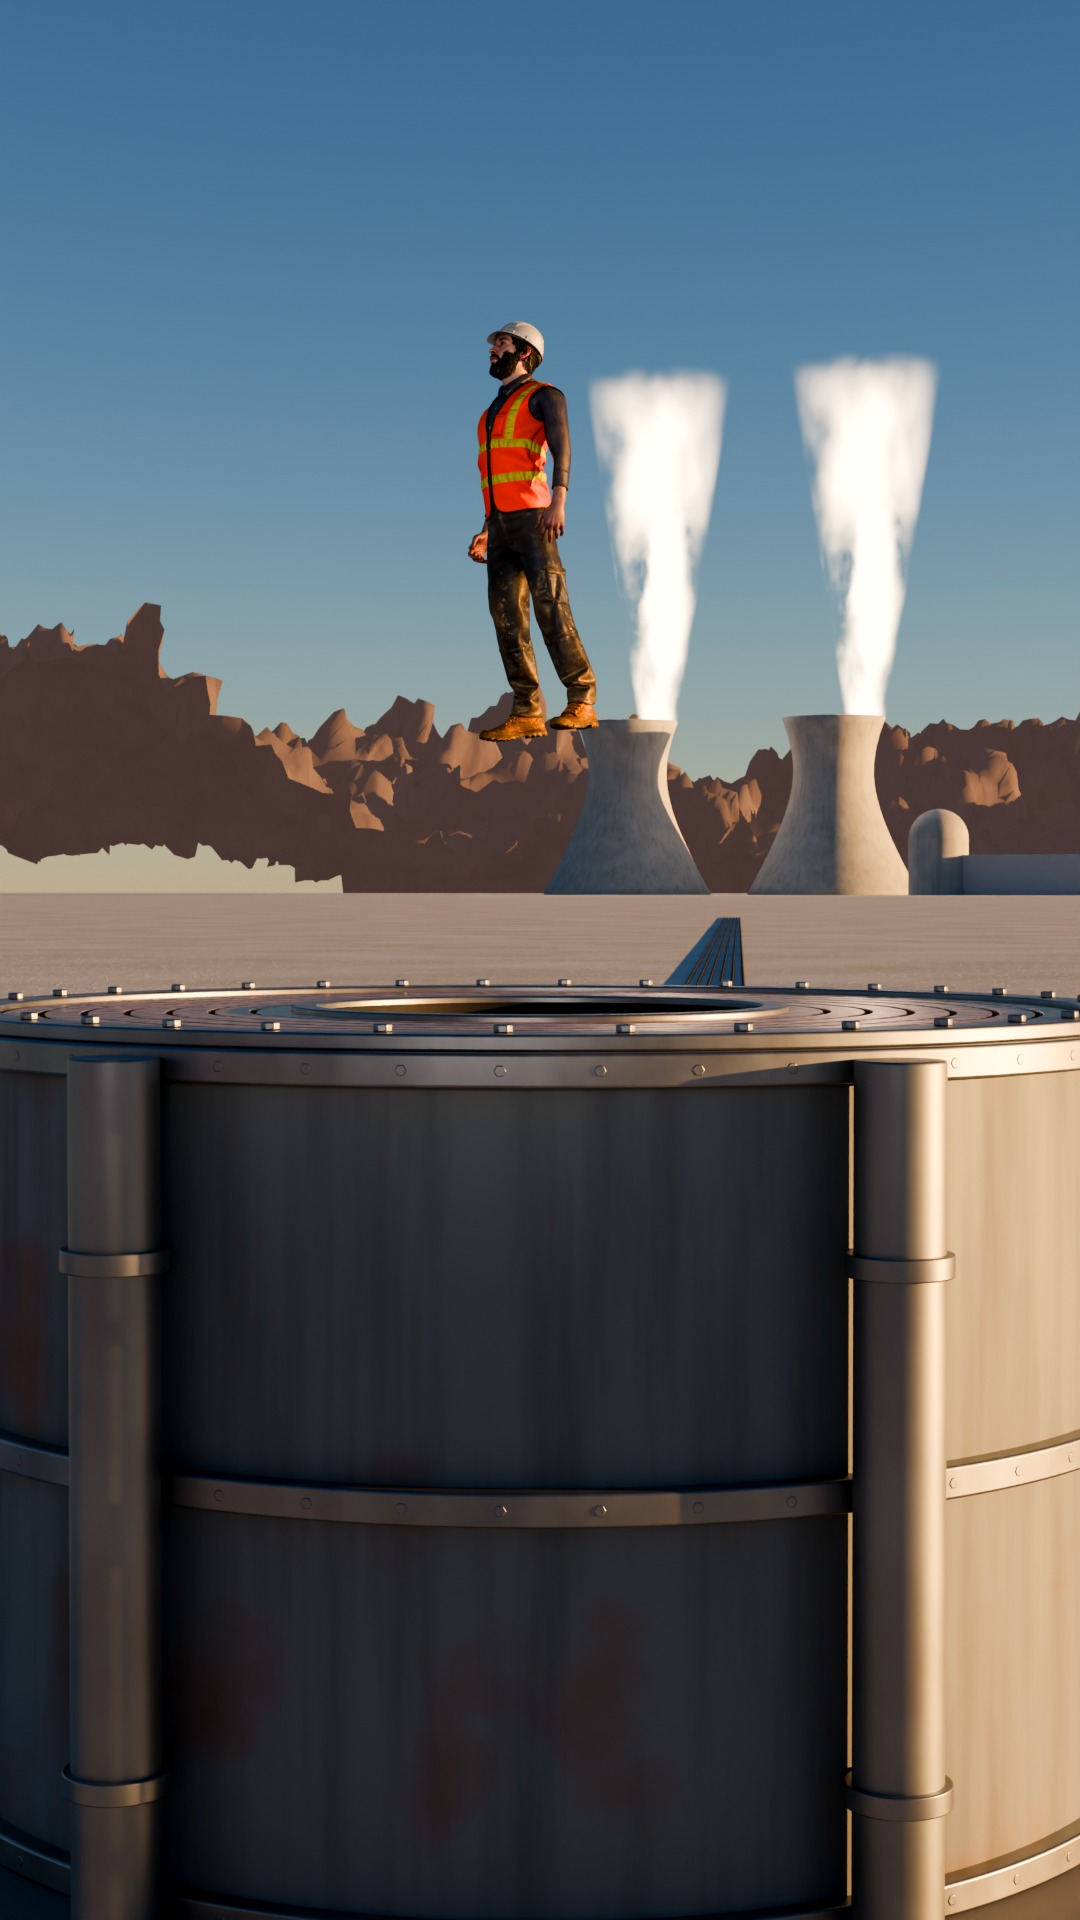
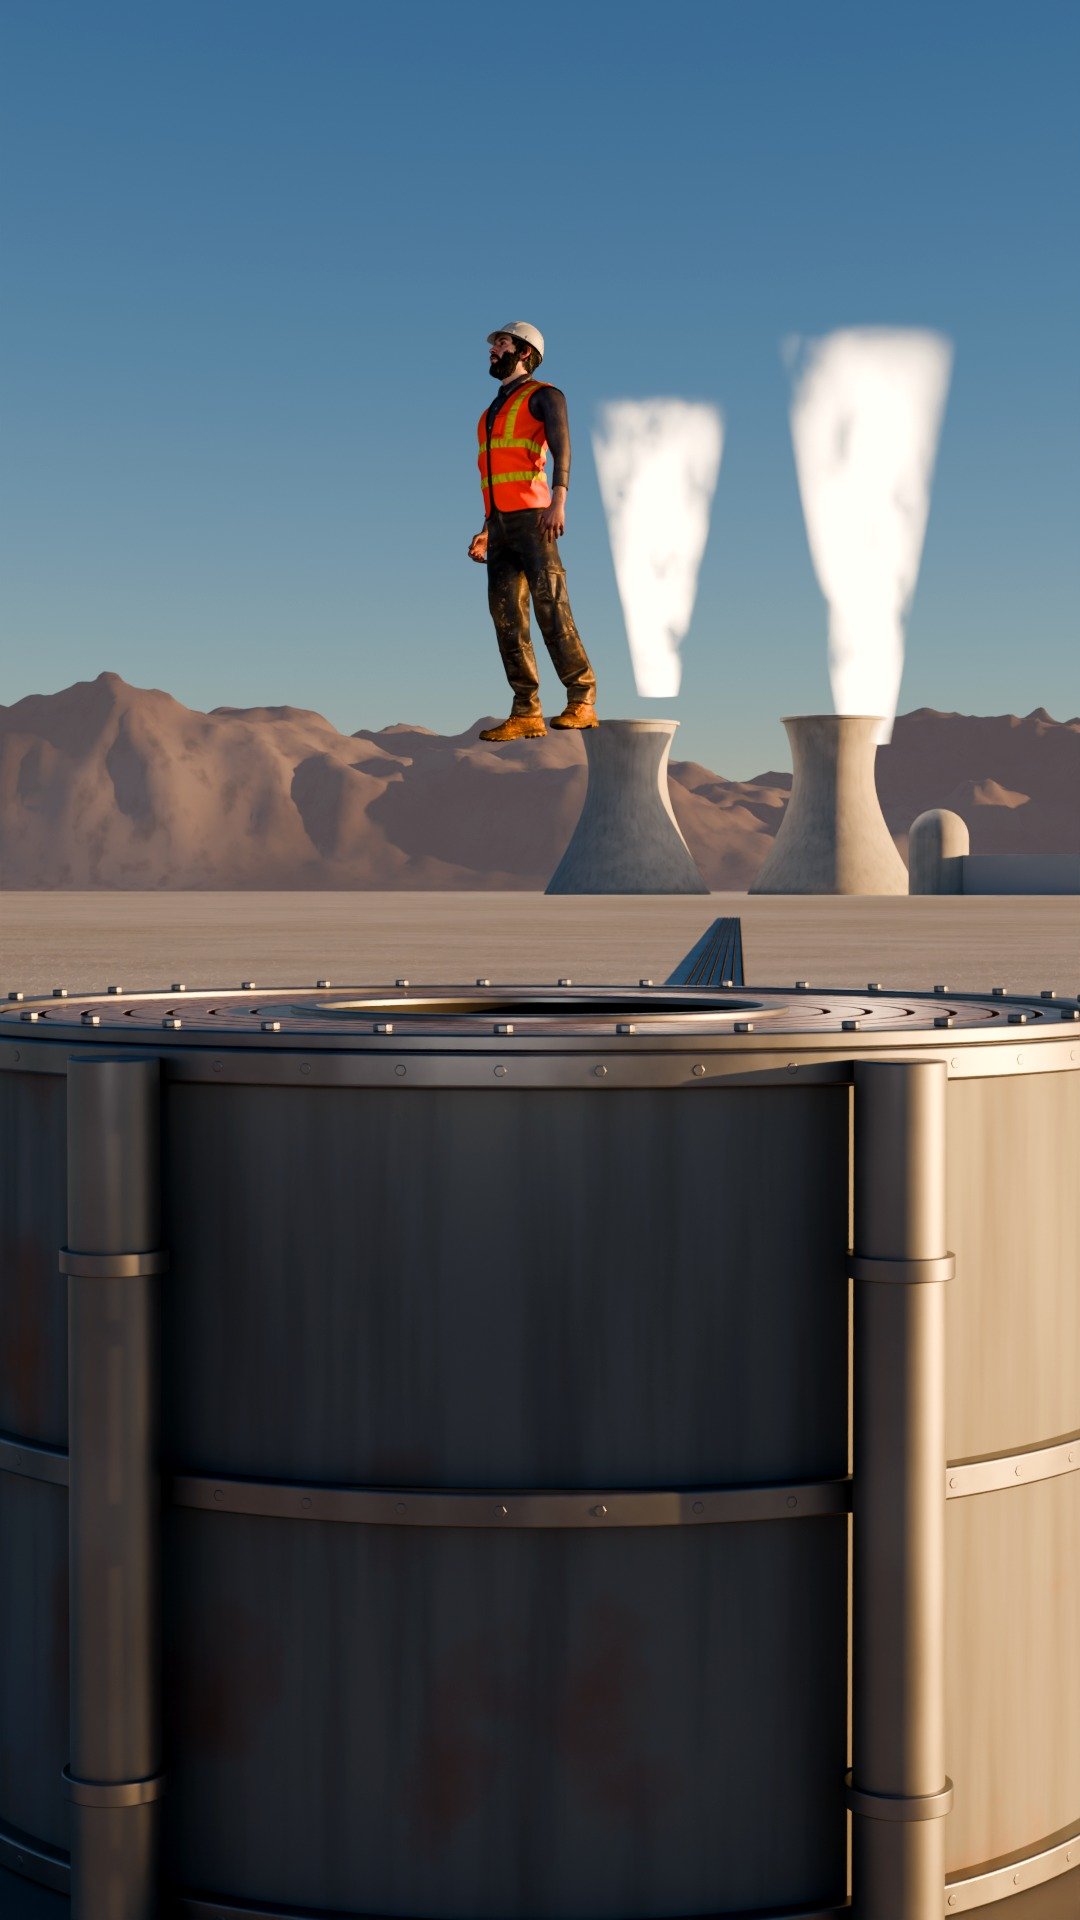
Ep. 5 parado en la puerta 4 (realismo 7 en 2 rondas): fondo de B arreglado sin abrir ronda 3; estado, lecciones 89, estudio e ideas al día
Claude-Session: https://claude.ai/code/session_01NsfHtMLpH4tmXW64rT29iR

diff --git a/CONTEXTO.md b/CONTEXTO.md
@@ -113,7 +113,7 @@ Leer esto entero antes de trabajar, junto con `proyecto/INSTRUCCIONES.md`: sus s
 - No crear cuentas ni usar contraseñas por Tomás.
 - **Publicar en redes solo con su OK explícito, post por post.**
 
-## Estado actual (22-oct-2026)
+## Estado actual (23-oct-2026)
 - **YouTube primero (21-oct-2026, noche):** Tomás decidió concentrar el proyecto en YouTube. Se investigó el algoritmo de Shorts, el YPP 2027, la frecuencia y la duración (`docs/YOUTUBE.md`, 27 fuentes en la prerelease `yt-fuentes`). Decidió: **videos de 25–40 s (techo 45)**, **5 por semana y diario cuando un video tome ≤ 2,5 h** (2 por sesión), **IG y TikTok siguen con el mismo video** y **compilaciones largas muy de vez en cuando**. Ajustado en el código (`presupuesto.json`: 25–45,5 s, 70–128 palabras, 6 escenas, tope 4 h y meta 2,5 h), el manual, el auditor, las ideas y las instrucciones. **Métrica principal en YouTube:** visto vs. deslizado, % visto y vistas comprometidas (se leen en YouTube Studio con el Chrome de Tomás; Metricool no las trae). Tomás calcula que el Ep. 3 (63 s, 5,5 h) gastó **~7 % de su uso semanal de Claude**: a 25–40 s se estima ~4–5 % por video, o sea ~30–35 % a la semana con uno diario. Le cabe (21:15).
 **Fase actual: 0, puesta a punto.** Ver la checklist en `docs/AUTOMATIZACION.md`.
 
@@ -165,6 +165,8 @@ Leer esto entero antes de trabajar, junto con `proyecto/INSTRUCCIONES.md`: sus s
   6. ~~Tareas programadas~~: la de producción la eliminó Tomás (21-oct): los videos se piden en el chat. La revisión de métricas, sólo si él la pide.
   7. **Ep. 4 = "La cortina de la ducha te persigue"** (`studio/episodios/ep04-cortina-ducha/`, primer video corto de YouTube primero, 35,7 s, 97 palabras): pedido por Tomás el 21-oct a las 23:28 y hecho de noche. Estudio previo en `docs/estudios/ep04.md` (sólo el Ep. 1 tenía métricas; Chrome no conectado, sin YouTube Studio). Personaje nuevo **Don Héctor** (MakeHuman CC0, `escena/pj/hector.blend`; de los hombros para arriba, máscara bajo el pecho y espuma: nada de desnudos). 3 escenas a medida: E1 ducha, E2 corte (la cortina se vuelve transparente y se ve el remolino acostado, eje perpendicular a la cortina según Schmidt en Scientific American), E3 cortina pesada. Puertas: guion r1, voz r1, storyboard r2 (r1: eje del remolino), cuadros r2 (r1: agua rosada; look lavado corregido), animatic r1 NO (3 bloqueantes; 2 ya arreglados en el final) → **parche** de los planos 3–5 sobre el final (lección 68) → animatic r2 (verificación sobre el final parchado) **NO: 1 bloqueante en el 17 (espalda 0,15 s y cortina que cae de golpe) y promedio 7,88** (gancho 7: el primer segundo es él tranquilo) → el 17 se simplificó (sin personaje, la cortina baja pareja) en un 2.º parche; **final APROBADO (puerta 7, 0 bloqueantes)**; **paquete APROBADO (8,5)**; **proceso NO** (bitácora sin chequeos de 15 min en la sesión y los revisores, y 5 h de 4: lección 73), con las 3 sugerencias del paquete aplicadas ("efecto cortina de ducha", pedir el envío, fuente NASW). Render final: run 39722863780 (12 máquinas, 8 muestras) + parches 39726712487 (3–5) y 39756380402 (17), prerelease `ep04-borrador`; portada en 3,7 s (`entrega/portada.jpg`). Desvíos: render final a **8 muestras** (16 no cabía en 4 h), 2 animatics cancelados a los 7–10 min (lección 67), la r2 de la puerta 6 se hizo sobre el final parchado. Tiempo: **~5 h** (23:28–03:43 y 06:23–~07:15; meta 2,5 h, **tope 4 h pasado por ~1 h**). Se paró a las 03:15 y se le dieron opciones a Tomás; a las 06:23 preguntó si estaba listo y se cerró. Lo que más costó: el render final (la máquina de los planos 13–14 tardó ~2 h, el doble de lo estimado) y los arreglos de la puerta 6 después del final. Textos en `entrega/caption.md`, **programado con OK de Tomás (22-oct 07:23) para el viernes 23-oct: IG 10:00 · TikTok 10:00 · YouTube 16:00** (Metricool 403001164 / 403001266 / 403001408; MP4 en el Release `ep04`). Confirmar después que quedó "Published". A Tomás le gustó mucho (ver "Aprendizajes").
 
+  8. **Ep. 5 = "El imán que hace flotar a una rana"** (`studio/episodios/ep05-iman-rana/`, primer video **realista**: "realista pero en un mundo animado", calidad Zack D. Films; pedido el 22-oct 23:16, hecho de noche). Guion v2.1 APROBADO (8,25; 119 palabras), voz APROBADO (41,4 s tras `pausas.py`), storyboard APROBADO r2 (18 planos, 5 escenas: E1 rana en el tubo del imán en un salar de Atacama al atardecer, E2 adentro hasta el agua, E3 refri, E4 imán gigante + central nuclear, E5 Pete de Mixamo flotando; SIMULACIÓN fija en 12–17). Rana = escaneo real CC-BY; Pete = Mixamo desde el Release privado `Personajes`. **Puerta 4 (cuadros de estilo): NO APROBADO en 2 rondas por realismo 7** (r1: B = 6, "maqueta"; r2: A 9, C 8, B 7 por el fondo + 1 bloqueante de cerros flotando). Por la regla de Tomás ("sigue sólo si el realismo llega a 8; si no, para y propón alternativas") **el video está parado ahí, sin animatic**: se dejó listo el arreglo del fondo de B (cerros con bruma y falda, salar de 40 km) sin abrir una 3.ª ronda, y se le dieron opciones a Tomás el 23-oct ~03:10. Tiempo: ~3 h 55 min (tope 4 h). Planos ya alineados con los cuadros v2 (rana 3/4 a 22 cm, Pete a 1,2 m sobre la boca, cámaras); los 27 trozos arman sin error (prueba local de 1 cuadro). Textos en `entrega/caption.md` (horario propuesto pendiente). Estudio en `docs/estudios/ep05.md`.
+
 - **Métricas al 22-oct ~20:00 (Studio y TikTok Studio, en `PUBLICADOS.md`):** el Ep. 3 (edificio) explotó en TikTok (118 mil) e Instagram (63,2 mil) y en YouTube quedó en 1.483. En YouTube los tres Shorts reciben una tanda de ~1.200–1.500 vistas y se frenan; el Ep. 1 tuvo una 2.ª tanda al día 2 (4.003 en total). El video no es el problema: 73–78 % no lo desliza, 0:32–0:42 de vista promedio, 93–97 % viene del feed de Shorts. Hipótesis principal: el largo (64–74 s; en el Ep. 1 a los 30 s queda el 46 %); el Ep. 4 (35,7 s) es la prueba. Público de YouTube: sobre todo México, después Argentina, Colombia, Perú y Guatemala. Horario: revisión en `docs/HORARIOS.md` (propuesta de alternar 20:30 y 16:00, pendiente de Tomás). Ojo: Instagram es @el_viejo_del_dato y el nombre visible de TikTok sigue siendo "Nadie te explica"; el canal de YouTube está en otra cuenta de Google en el Chrome de Tomás (selector de canales).
 
 ## Decisiones pendientes de Tomás
@@ -175,6 +177,7 @@ Leer esto entero antes de trabajar, junto con `proyecto/INSTRUCCIONES.md`: sus s
 5. ~~Producción automática~~: **decidido por Tomás el 21-oct-2026: no hay tarea programada de producción.** Él pide cada video en el chat; uno o dos videos por sesión (desde el 21-oct, YouTube primero).
 6. **Proporción datos/historias.** Propuesta de Claude: ~2 de datos por cada historia en el piloto; a las 4 semanas se ajusta según envíos/alcance de cada línea.
 7. **Sumar Facebook como 4.ª red** (es el mismo video y Facebook paga por vistas en Chile, por invitación). Necesita que Tomás cree una página de Facebook y la conecte a Metricool. Preguntado el 21-oct.
+8. **Ep. 5: cómo seguir después de la puerta 4** (preguntado el 23-oct ~03:10): (1) 3.ª ronda con el fondo de B ya arreglado y, si llega a 8, animatic + final (recomendado); (2) que Tomás mire los cuadros y, si le gustan, seguir sin otra ronda; (3) dejar el Ep. 5 y hacer otra idea.
 
 ## Aprendizajes
 (Se llenan con los datos de cada semana. Ver `docs/PUBLICADOS.md`.)

diff --git a/docs/LECCIONES.md b/docs/LECCIONES.md
@@ -151,6 +151,7 @@ Resultado: se publicó el 19-oct a las 16:35 en Instagram, TikTok y YouTube, per
 | 86 | Con la cámara alta, Pete "flotando" sobre la boca parecía parado sobre los cables a lo lejos | Sus pies quedaban contra el suelo lejano, justo donde convergían los cables (perspectiva ambigua) | Cámara apenas sobre la tapa: los pies se recortan contra el fondo lejano y el hueco entre la tapa y las botas se lee | **Lo que flota se recorta contra el fondo lejano o el cielo, nunca contra el suelo detrás**; revisar qué hay detrás de los pies |
 | 87 | Los cables al suelo hacia la central se veían como una "aleta" gris detrás del imán | Iban justo hacia el punto de fuga del centro del cuadro y el sol bajo les daba una sombra de 1 m; además reflejaban el cielo a ras | Cables finos, mate (sin reflejo) y la central a un costado del cuadro | Una línea en el suelo que apunta al centro del cuadro se lee como objeto vertical: correr el punto de fuga a un lado |
 | 88 | El cuadro 0 de la rana, más cerca, quedó lavado (fondo de horizonte quemado) | Cámara a la altura de la rana: de fondo, el cielo del atardecer | Cámara 7,5 cm más arriba mirando un poco hacia abajo: de fondo, la sal a contraluz (azul) | En macro al atardecer, el fondo es el suelo a contraluz, no el horizonte |
+| 89 | Puerta 4 r2: realismo otra vez 7 (A 9, C 8, B 7) y un bloqueante B1: los cerros flotaban sobre una franja de cielo | El salar medía 6 km y los cerros están a 8–12 km (bajo ellos no había suelo); el relieve no se apagaba en el borde de la malla; cerros con detalle chico de "greda" y sin bruma | Salar de 40 km, falda en los cerros (el relieve se apaga hacia el borde), formas grandes con bruma de distancia y dos rocas, manchas en la sal, plumas distintas | **Fondo lejano realista = formas grandes + bruma + el suelo llega hasta él.** Y: después de rediseñar un set, revisar el fondo en un recorte a resolución completa antes de la ronda (en la miniatura no se ve) |
 
 ### Lo que funcionó (para repetir)
 - **Escaneos reales con licencia CC-BY** (Objaverse/Sketchfab, crédito en la descripción) para animales: la rana se ve real sin modelarla.

diff --git a/docs/estudios/ep05.md b/docs/estudios/ep05.md
@@ -20,6 +20,12 @@ Pedido de Tomás (22-oct 23:16): realismo de verdad, cuadro 0 que sea un "¿qué
   - **Cámara y color:** lente de 40–50 mm a f/2 con profundidad de campo, y AgX.
   - **Las explicaciones van como capas estilizadas encima:** líneas del imán y flechas.
 - **Costo medido:** un cuadro de 1080×1920 a 64 muestras tarda ~4–5 min en Actions. En el video (720×1280, 16 muestras) se estiman ~30–40 s por cuadro en CPU; el final conviene en GPU (RunPod).
+- **Lo que dijo el auditor (puerta 4, realismo con mínimo 8):**
+  - **r1: 7.** A (rana) 8; C (adentro) 7; B (imán gigante) 6, "maqueta o videojuego": paneles lisos, luz pareja de mediodía sin negros, torre lisa, cerros de greda; Pete parecía parado sobre la tapa.
+  - **r2: 7** (los 5 problemas de r1 arreglados). A 9 (rana 3/4 con ojo, fondo de sal a contraluz, vidrio con polvo); C 8; B 7 por el fondo: cerros facetados de un solo café sin bruma (y flotando a la izquierda: bloqueante), suelo liso, torres perfectas.
+  - **Qué subió la nota:** suciedad en todo (chorreados, óxido, rayas, manchas), sol bajo y de costado, menos luz de cielo (negros reales), escaneos y personajes con texturas reales, foco en la cabeza con f/8.
+  - **Qué la bajó:** lo lejano hecho con ruido (cerros) y las superficies grandes lisas. Después de r2 se dejaron cerros con formas grandes, bruma y falda, y un salar de 40 km (sin auditar: la 3.ª ronda es decisión de Tomás).
+  - **Leer una levitación:** lo que flota tiene que recortarse contra el fondo lejano o el cielo; con la cámara alta los pies de Pete quedaban contra el suelo y parecía parado lejos.
 
 ## 4. Cuadro 0 y primeros 2 s
 - **Elegido:** la rana ya flotando sobre la boca negra del imán, con su sombra en la tapa: es verdad y se entiende en 1 foto. En 0–2 s la cámara le da media vuelta, para que se vea que no hay hilos, y entra la píldora SIN HILOS.

diff --git a/docs/IDEAS.md b/docs/IDEAS.md
@@ -164,7 +164,7 @@ Todos los datos están por **verificar** al producir; acá solo van como pista.
 |---|---|---|---|---|
 | **usada: Ep. 4** (22-oct-2026) | La cortina de la ducha te persigue (y no es un fantasma) | El chorro arma un remolino acostado dentro de la ducha; su centro tiene baja presión y chupa la cortina. Pasa también con agua fría | La ducha en corte con el remolino girando como una rueda y la cortina que se mete | El agua caliente lo empeora |
 | pendiente (ficha abajo) | El vidrio de tu ventana se hizo flotando sobre metal derretido | Vidrio a 1.100 °C se vierte sobre una piscina de estaño fundido, flota y se aplana solo; sale a 600 °C | La cinta de vidrio naranja deslizándose sobre el espejo de estaño | Con luz ultravioleta se ve cuál lado tocó el estaño |
-| pendiente (ficha abajo) | Con un imán gigante puedes hacer flotar a un ser vivo | El agua del cuerpo es repelida un poquito por los imanes: con ~16 T flotó una rana viva; la NASA hizo flotar ratones por horas | La rana flotando dentro del tubo del imán | Todo lo que tiene agua (tú también) es levemente "antimagnético" |
+| en producción: Ep. 5, parado en la puerta 4 (23-oct, ver CONTEXTO) | Con un imán gigante puedes hacer flotar a un ser vivo | El agua del cuerpo es repelida un poquito por los imanes: con ~16 T flotó una rana viva; la NASA hizo flotar ratones por horas | La rana flotando dentro del tubo del imán | Todo lo que tiene agua (tú también) es levemente "antimagnético" |
 
 #### Ficha — La cortina de la ducha (verificada)
 - **Por qué le gustó a Tomás:** una vez pensó que le estaban penando porque la cortina se movía sola. Gancho natural: "no es un fantasma".
